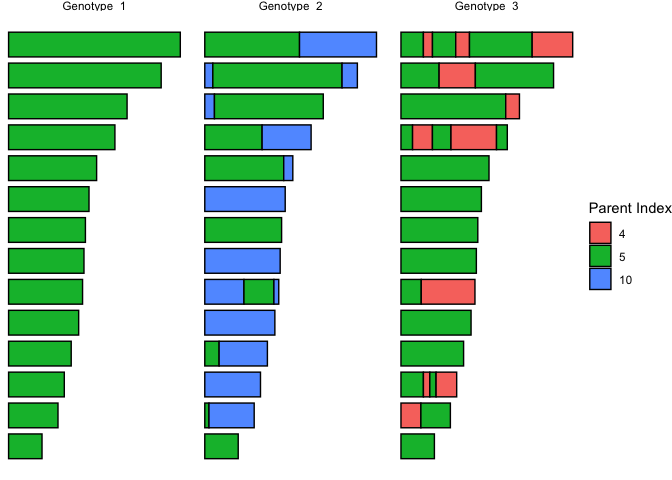
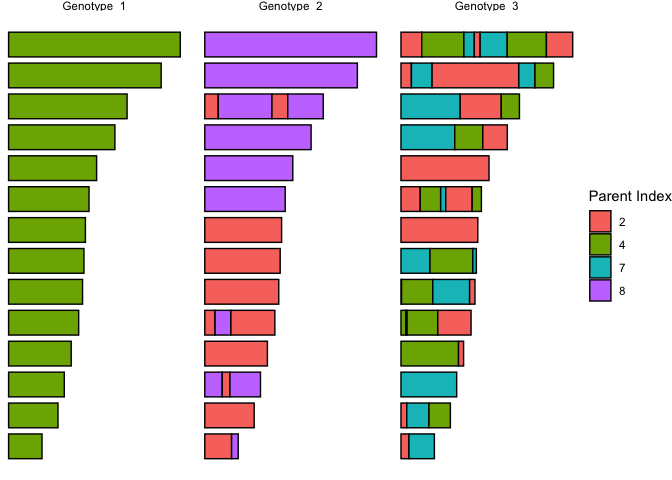
fixed seed to produce a nice read counts plot, and changed references in text to reflect the new stochastic values

Changed region(s): [[0.0, 0.0625, 0.5625, 0.9688], [0.5938, 0.0625, 0.8438, 0.9688], [0.875, 0.375, 1.0, 0.6562]]

diff --git a/README.md b/README.md
@@ -47,7 +47,7 @@ Both methods start the same way; by simulating blocks of inheritance.
 
 ``` r
 library(recombuddy)
-set.seed(1)
+set.seed(5)
 ```
 
 Let’s imagine we have 10 genotypes in our sample set.
@@ -74,14 +74,14 @@ by descent $`Pr(IBD)`$ between two samples, then we can calculate
 
 ``` r
 # define concentration parameter of the Dirichlet distribution directly from f
-f <- 0.2
+f <- 0.1
 alpha <- (1 - f) / f
 
 # draw proportions of each member of the sample set
 set_props <- rdirichlet_single(n_set, alpha = alpha)
 set_props
-#>  [1] 0.009478167 0.081912664 0.023858816 0.045597922 0.696655093 0.001457516
-#>  [7] 0.024172231 0.017633511 0.003904626 0.095329454
+#>  [1] 0.026699104 0.243224692 0.012984787 0.318369030 0.036088779 0.210935723
+#>  [7] 0.028352619 0.064805150 0.001442449 0.057097667
 ```
 
 Next, we simulate a single polyclonal sample using `sim_sample()`.
@@ -139,20 +139,20 @@ samp1[[1]]$segments
 #> # A tibble: 14 × 4
 #>    chrom start     end index
 #>    <int> <dbl>   <dbl> <int>
-#>  1     1     1  640851     5
-#>  2     2     1  947102     5
-#>  3     3     1 1067971     5
-#>  4     4     1 1200490     5
-#>  5     5     1 1343557     5
-#>  6     6     1 1418242     5
-#>  7     7     1 1445207     5
-#>  8     8     1 1472805     5
-#>  9     9     1 1541735     5
-#> 10    10     1 1687656     5
-#> 11    11     1 2038340     5
-#> 12    12     1 2271494     5
-#> 13    13     1 2925236     5
-#> 14    14     1 3291936     5
+#>  1     1     1  640851     4
+#>  2     2     1  947102     4
+#>  3     3     1 1067971     4
+#>  4     4     1 1200490     4
+#>  5     5     1 1343557     4
+#>  6     6     1 1418242     4
+#>  7     7     1 1445207     4
+#>  8     8     1 1472805     4
+#>  9     9     1 1541735     4
+#> 10    10     1 1687656     4
+#> 11    11     1 2038340     4
+#> 12    12     1 2271494     4
+#> 13    13     1 2925236     4
+#> 14    14     1 3291936     4
 ```
 
 These segments span the entire lengths of all 14 chromosomes, which is
@@ -162,46 +162,46 @@ Here is what it looks like for the `k[2]=1` case (single meiosis):
 
 ``` r
 samp1[[2]]$segments
-#> # A tibble: 24 × 4
-#>    chrom   start     end index
-#>    <int>   <dbl>   <dbl> <int>
-#>  1     1       1  640851     5
-#>  2     2       1   80552     5
-#>  3     2   80553  947102    10
-#>  4     3       1 1067971    10
-#>  5     4       1  274787     5
-#>  6     4  274788 1200490    10
-#>  7     5       1 1343557    10
-#>  8     6       1  751038    10
-#>  9     6  751039 1325210     5
-#> 10     6 1325211 1418242    10
-#> # ℹ 14 more rows
+#> # A tibble: 22 × 4
+#>    chrom  start     end index
+#>    <int>  <dbl>   <dbl> <int>
+#>  1     1      1  513918     2
+#>  2     1 513919  640851     8
+#>  3     2      1  947102     2
+#>  4     3      1  334501     8
+#>  5     3 334502  482451     2
+#>  6     3 482452 1067971     8
+#>  7     4      1 1200490     2
+#>  8     5      1  197194     2
+#>  9     5 197195  500981     8
+#> 10     5 500982 1343557     2
+#> # ℹ 12 more rows
 ```
 
 Now we have some segments that are smaller than the whole chromosome,
-and the genotype is a mosaic of ancestral individuals 5 and 10.
+and the genotype is a mosaic of ancestral individuals 2 and 8.
 
 Here is what it looks like for the `k[3]=2` case (two serial meioses):
 
 ``` r
 samp1[[3]]$segments
-#> # A tibble: 31 × 4
-#>    chrom  start     end index
-#>    <int>  <dbl>   <dbl> <int>
-#>  1     1      1  640851     5
-#>  2     2      1  381848     4
-#>  3     2 381849  947102     5
-#>  4     3      1  430259     5
-#>  5     3 430260  552846     4
-#>  6     3 552847  672918     5
-#>  7     3 672919 1067971     4
-#>  8     4      1 1200490     5
-#>  9     5      1 1343557     5
-#> 10     6      1  388900     5
-#> # ℹ 21 more rows
+#> # A tibble: 44 × 4
+#>    chrom   start     end index
+#>    <int>   <dbl>   <dbl> <int>
+#>  1     1       1  152354     2
+#>  2     1  152355  640851     7
+#>  3     2       1  111287     2
+#>  4     2  111288  536449     7
+#>  5     2  536450  947102     4
+#>  6     3       1 1067971     7
+#>  7     4       1 1103378     4
+#>  8     4 1103379 1200490     2
+#>  9     5       1   96195     4
+#> 10     5   96196  116812     2
+#> # ℹ 34 more rows
 ```
 
-Now we have more complex blocks composed of individuals 2, 3, and 5. The
+Now we have more complex blocks composed of individuals 2, 4, and 7. The
 reason there are only 3 ancestors here when there should be 2^2=4
 parents is that the same parent was chosen twice by chance.
 
@@ -212,20 +212,20 @@ Then we can produce a simple visualization of the blocks:
 # get all genotypes into a single table
 df_all_genotypes <- get_all_genotypes(samp1)
 df_all_genotypes
-#> # A tibble: 69 × 5
+#> # A tibble: 80 × 5
 #>    genotype chrom start     end index
 #>       <int> <int> <dbl>   <dbl> <int>
-#>  1        1     1     1  640851     5
-#>  2        1     2     1  947102     5
-#>  3        1     3     1 1067971     5
-#>  4        1     4     1 1200490     5
-#>  5        1     5     1 1343557     5
-#>  6        1     6     1 1418242     5
-#>  7        1     7     1 1445207     5
-#>  8        1     8     1 1472805     5
-#>  9        1     9     1 1541735     5
-#> 10        1    10     1 1687656     5
-#> # ℹ 59 more rows
+#>  1        1     1     1  640851     4
+#>  2        1     2     1  947102     4
+#>  3        1     3     1 1067971     4
+#>  4        1     4     1 1200490     4
+#>  5        1     5     1 1343557     4
+#>  6        1     6     1 1418242     4
+#>  7        1     7     1 1445207     4
+#>  8        1     8     1 1472805     4
+#>  9        1     9     1 1541735     4
+#> 10        1    10     1 1687656     4
+#> # ℹ 70 more rows
 ```
 
 ``` r
@@ -236,14 +236,14 @@ plot_genotypes(df_all_genotypes)
 
 <img src="man/figures/README-unnamed-chunk-10-1.png" width="100%" />
 
-We can see from this plot that there is a complex pattern of
-relatedness. All three haploid genotypes contain blocks of ancestor 5,
-meaning there will be IBD segments along the genome.
+We can see from this plot that there is a complex pattern of relatedness
+between haploid genomes.
 
-If out plan is to pull directly from a reference panel of haploid
+If our plan is to pull directly from a reference panel of haploid
 genotypes, then the role of *recombuddy* ends here. We can take the
 output in the `segments` elements and pass into our downstream
-bioinformatic pipeline to produce synthetic genotypes.
+bioinformatic pipeline to produce synthetic genotypes. If our plan is to
+use a synthetic sample set then the analysis continues.
 
 ## Simulating allele frequencies
 
@@ -259,16 +259,16 @@ df_loci
 #> # A tibble: 2,000 × 2
 #>    chrom   pos
 #>    <int> <int>
-#>  1     1  2833
-#>  2     1 15923
-#>  3     1 19772
-#>  4     1 27219
-#>  5     1 43782
-#>  6     1 47932
-#>  7     1 72526
-#>  8     1 83733
-#>  9     1 87081
-#> 10     1 92293
+#>  1     1  5612
+#>  2     1 15105
+#>  3     1 29268
+#>  4     1 36032
+#>  5     1 44673
+#>  6     1 74228
+#>  7     1 78143
+#>  8     1 79950
+#>  9     1 80763
+#> 10     1 94072
 #> # ℹ 1,990 more rows
 ```
 
@@ -281,18 +281,18 @@ parameters that define the allele frequency distribution:
 df_PLAF <- draw_PLAF(df_loci = df_loci, beta_shape1 = 0.5, beta_shape2 = 0.5)
 df_PLAF
 #> # A tibble: 2,000 × 3
-#>    chrom   pos    PLAF
-#>    <int> <int>   <dbl>
-#>  1     1  2833 0.0253 
-#>  2     1 15923 0.437  
-#>  3     1 19772 0.00222
-#>  4     1 27219 0.535  
-#>  5     1 43782 0.212  
-#>  6     1 47932 0.409  
-#>  7     1 72526 0.637  
-#>  8     1 83733 0.942  
-#>  9     1 87081 0.796  
-#> 10     1 92293 0.500  
+#>    chrom   pos  PLAF
+#>    <int> <int> <dbl>
+#>  1     1  5612 0.677
+#>  2     1 15105 0.155
+#>  3     1 29268 0.567
+#>  4     1 36032 0.984
+#>  5     1 44673 0.839
+#>  6     1 74228 0.354
+#>  7     1 78143 0.111
+#>  8     1 79950 0.499
+#>  9     1 80763 0.940
+#> 10     1 94072 0.980
 #> # ℹ 1,990 more rows
 ```
 
@@ -305,16 +305,16 @@ df_sample_set
 #> # A tibble: 20,000 × 4
 #>    index chrom   pos  WSAF
 #>    <int> <int> <int> <dbl>
-#>  1     1     1  2833     0
-#>  2     1     1 15923     0
-#>  3     1     1 19772     0
-#>  4     1     1 27219     1
-#>  5     1     1 43782     0
-#>  6     1     1 47932     1
-#>  7     1     1 72526     1
-#>  8     1     1 83733     1
-#>  9     1     1 87081     1
-#> 10     1     1 92293     0
+#>  1     1     1  5612     1
+#>  2     1     1 15105     0
+#>  3     1     1 29268     1
+#>  4     1     1 36032     1
+#>  5     1     1 44673     1
+#>  6     1     1 74228     1
+#>  7     1     1 78143     0
+#>  8     1     1 79950     0
+#>  9     1     1 80763     1
+#> 10     1     1 94072     1
 #> # ℹ 19,990 more rows
 ```
 
@@ -329,9 +329,9 @@ df_genotype_props
 #> # A tibble: 3 × 2
 #>   genotype  prop
 #>      <int> <dbl>
-#> 1        1 0.391
-#> 2        2 0.325
-#> 3        3 0.285
+#> 1        1 0.436
+#> 2        2 0.182
+#> 3        3 0.382
 ```
 
 We now have everything we need to calculate the true within-sample
@@ -347,16 +347,16 @@ df_WSAF
 #> # A tibble: 2,000 × 3
 #>    chrom   pos  WSAF
 #>    <int> <int> <dbl>
-#>  1     1  2833     0
-#>  2     1 15923     1
-#>  3     1 19772     0
-#>  4     1 27219     0
-#>  5     1 43782     0
-#>  6     1 47932     0
-#>  7     1 72526     0
-#>  8     1 83733     1
-#>  9     1 87081     0
-#> 10     1 92293     1
+#>  1     1  5612 1    
+#>  2     1 15105 0    
+#>  3     1 29268 1    
+#>  4     1 36032 1    
+#>  5     1 44673 0.564
+#>  6     1 74228 0.436
+#>  7     1 78143 0.436
+#>  8     1 79950 1    
+#>  9     1 80763 1    
+#> 10     1 94072 1    
 #> # ℹ 1,990 more rows
 ```
 
@@ -374,16 +374,16 @@ df_counts
 #> # Rowwise: 
 #>    chrom   pos   REF   ALT
 #>    <int> <int> <dbl> <dbl>
-#>  1     1  2833     0   100
-#>  2     1 15923   100     0
-#>  3     1 19772     0   100
-#>  4     1 27219     0   100
-#>  5     1 43782     0   100
-#>  6     1 47932     0   100
-#>  7     1 72526     0   100
-#>  8     1 83733   100     0
-#>  9     1 87081     0   100
-#> 10     1 92293   100     0
+#>  1     1  5612   100     0
+#>  2     1 15105     0   100
+#>  3     1 29268   100     0
+#>  4     1 36032   100     0
+#>  5     1 44673    65    35
+#>  6     1 74228    37    63
+#>  7     1 78143    46    54
+#>  8     1 79950   100     0
+#>  9     1 80763   100     0
+#> 10     1 94072   100     0
 #> # ℹ 1,990 more rows
 ```
 
